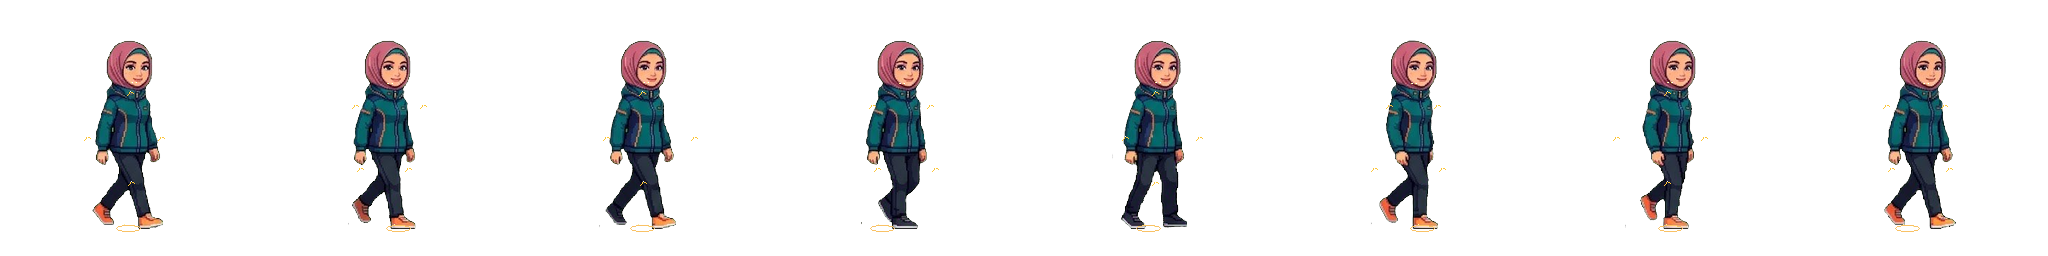
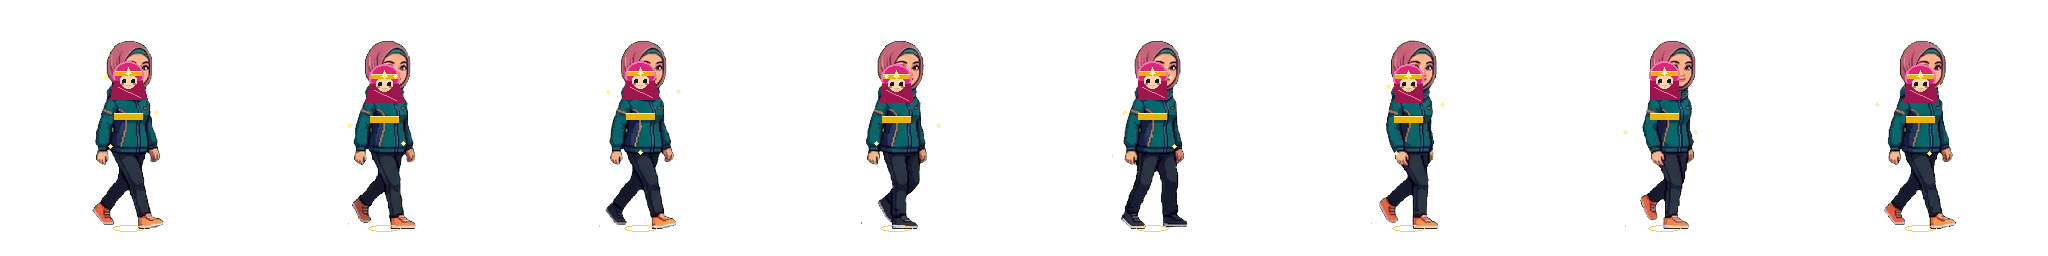
feat(dani): unify all Dani transformed sheets into Pendekar Melayu Perempuan Berhijab with signature colors

diff --git a/src/components/GameCanvas.tsx b/src/components/GameCanvas.tsx
@@ -7692,7 +7692,7 @@ export const GameCanvas: React.FC<GameCanvasProps> = ({
           ctx.fillText("🔥 AWAKENING: PENDEKAR SILAT SAKTI DANI! 🔥", bannerX, bannerY - 8);
           ctx.font = "bold 11px 'Courier New', monospace";
           ctx.fillStyle = "#ef4444";
-          ctx.fillText("JURUS SILAT PETIR DUA KERIS • SPEED +35% • ATK +50% • KI HARIMAU", bannerX, bannerY + 16);
+          ctx.fillText("PENDEKAR MELAYU BERHIJAB • SPEED +35% • ATK +50% • KI KERIS EMAS", bannerX, bannerY + 16);
         }
         ctx.restore();
       }
